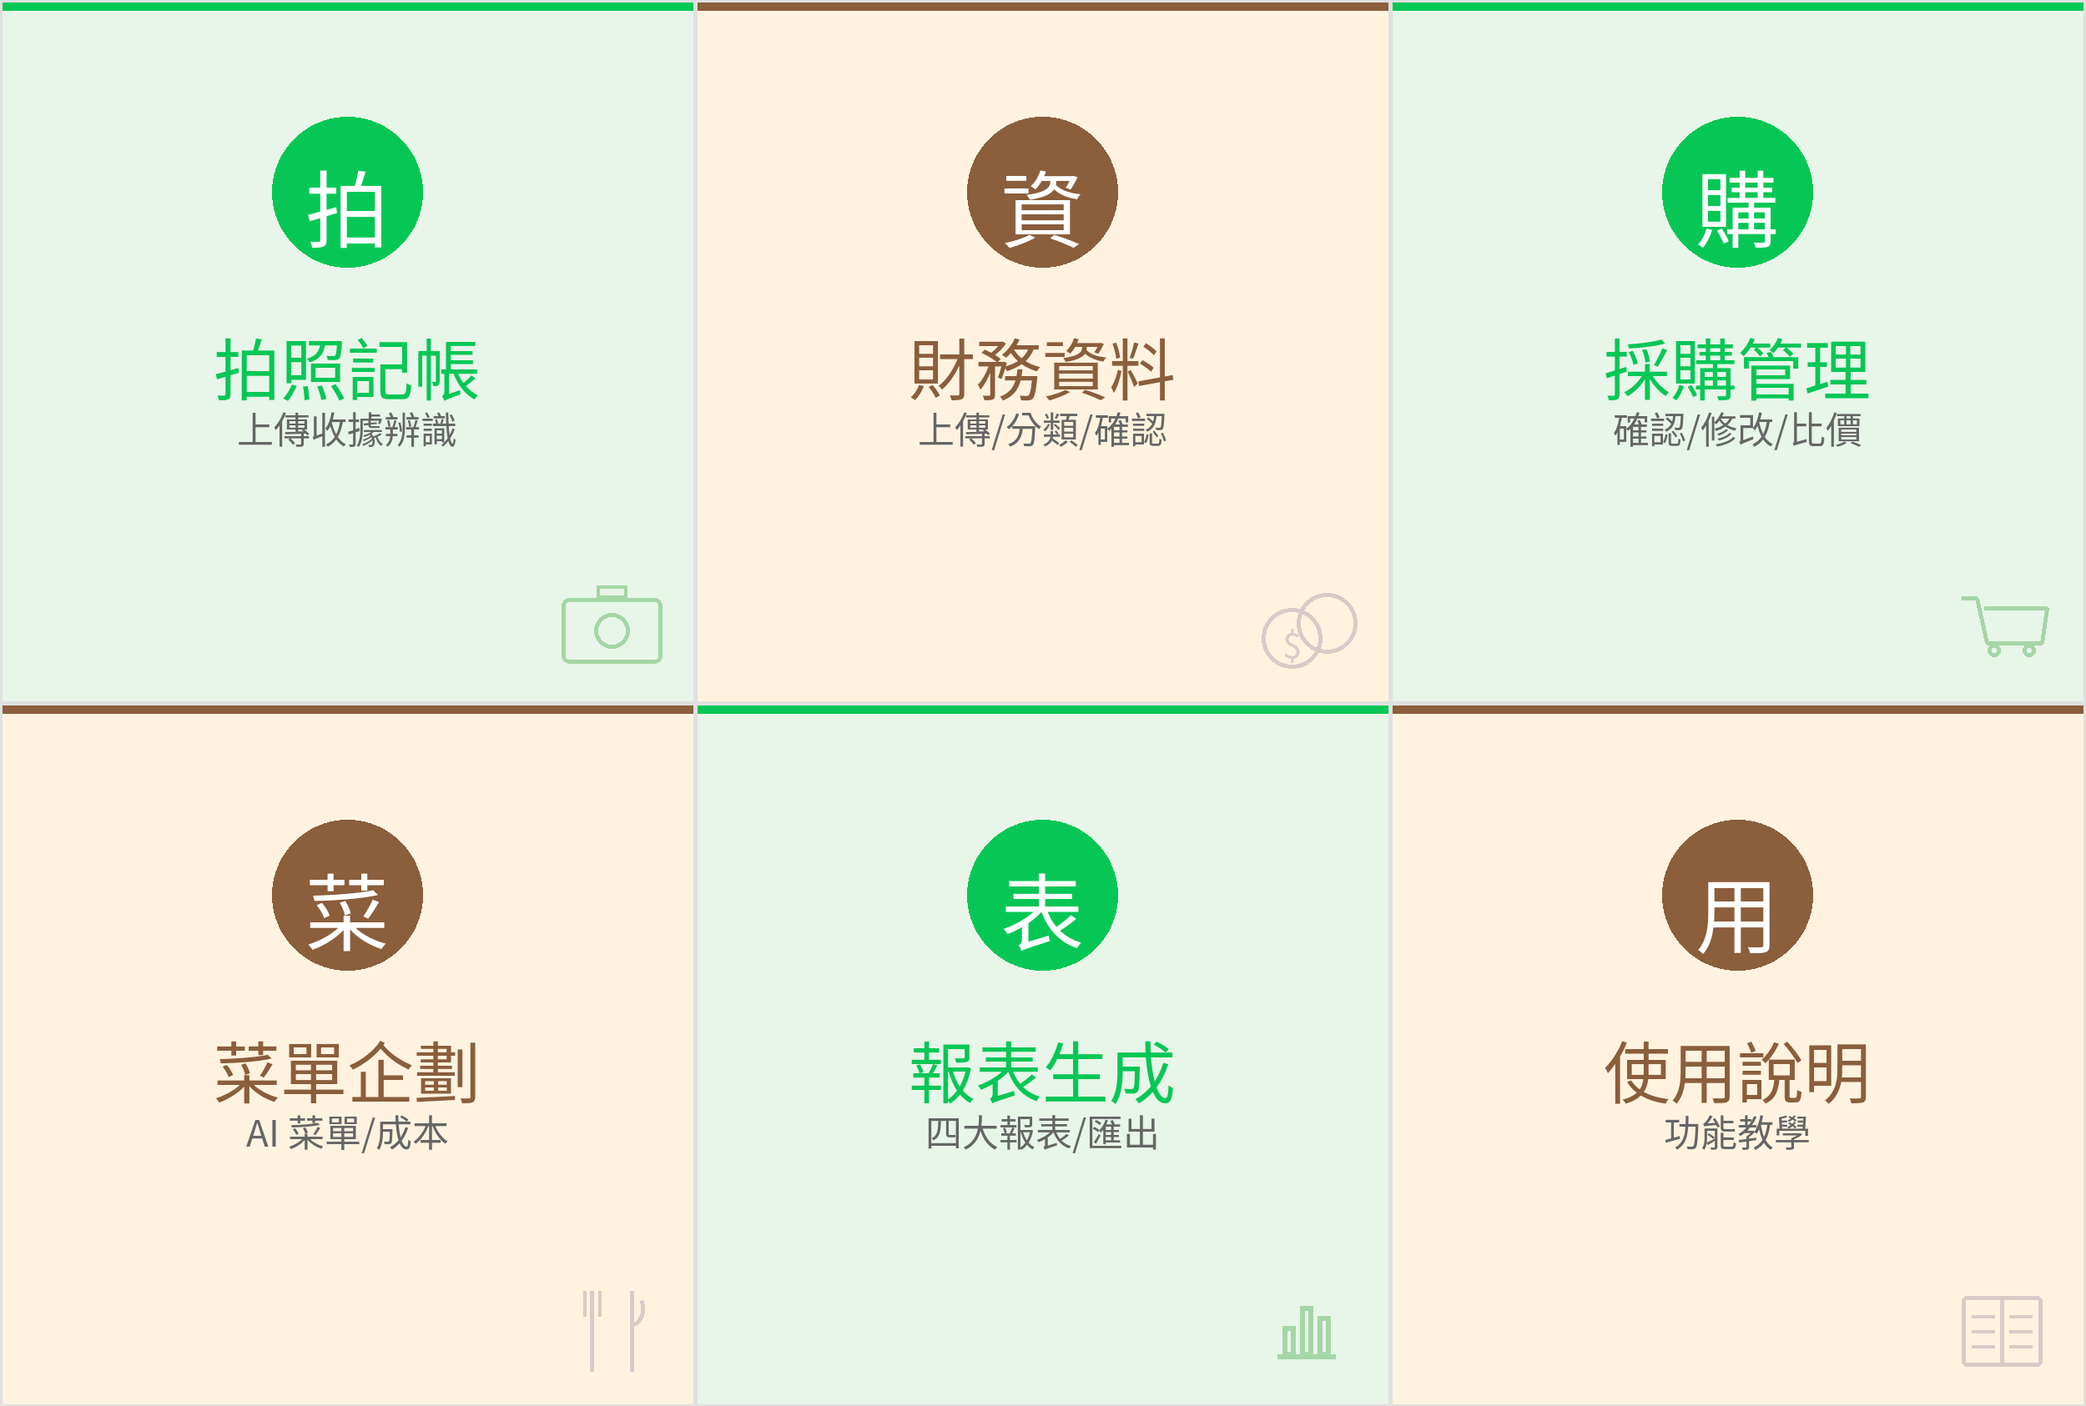
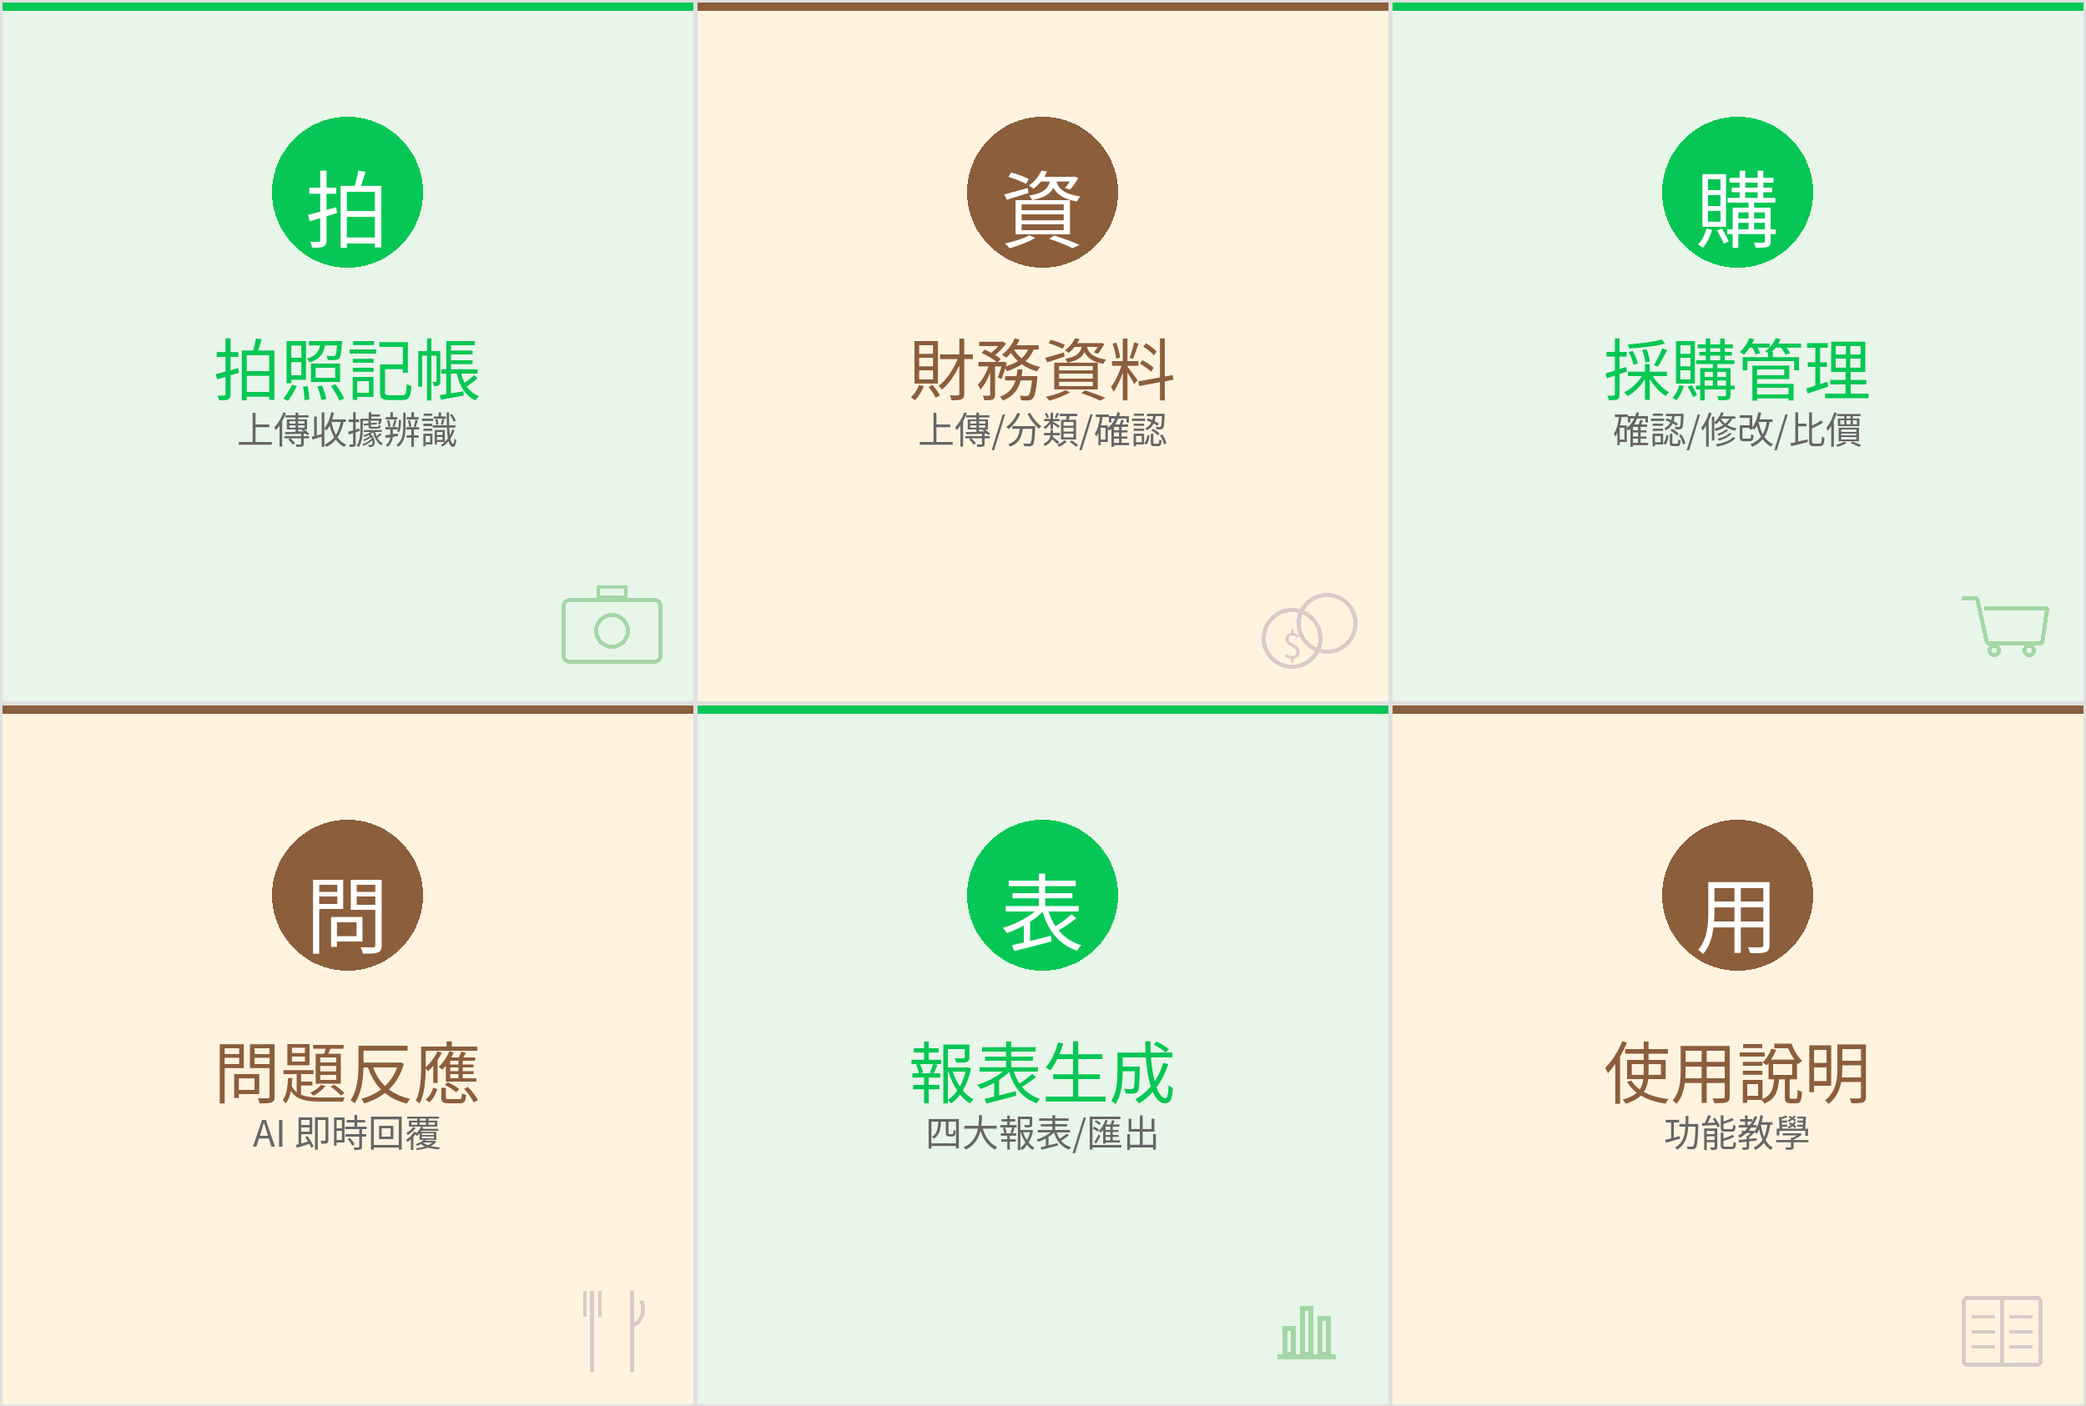
feat: 5/17 LV1 Rich Menu「問題反應」+ issue_feedback handler 三模型辯論
5/17 LV1 憲法 P0+P1 落地, 5 通道全部署 (rollback map 存 data/richmenu_rollback/).

Rich Menu cell #4 swap:
- services/richmenu_service.py: menu_plan → issue_feedback (postback data + displayText)
- scripts/generate_richmenu_image.py: CELLS[3] 菜單企劃 → 問題反應 (AI 即時回覆)
- assets/richmenu.png: 重新生成

新 handlers/issue_feedback_handler.py:
- handle_postback_open: set state waiting_issue_question + reply Flex 提示
- handle_question: ack + 寫 ticket md 到 data/issue_tickets/ + spawn async _solve_and_reply
- _debate: claude sonnet ∥ llm-router ∥ gemini CLI (Ultra OAuth) 三路並行
- 收斂規則: alive ≥ 2/3 + 禁詞檢測 (請聯絡老闆 / 下次月會討論 等 6 條)
- ticket lite SOP state 機: open → claimed → verified → replied | escalated
- FAQ auto-write data/issue_faq/{YYYYMMDD}.md
- 不收斂 → push admin LINE escalate, 跟員工說「我先請老闆過目」

Wire callsites:
- handlers/postback_handler.py:27: menu=issue_feedback router hook
- handlers/postback_handler.py:885: alt_text 加 issue_feedback
- handlers/command_handler.py:24: waiting_issue_question state route

Smoke test: mock LineService 跑 postback+question+cancel 全 SMOKE_OK,
ticket md 真生 (data/issue_tickets/20260603_212928_user.md).
真實 prompt 跑 gemini CLI 回 136 char 老闆口吻條列建議, 無禁詞.

diff --git a/handlers/issue_feedback_handler.py b/handlers/issue_feedback_handler.py
@@ -1,0 +1,301 @@
+"""
+員工問題反應 handler (5/17 LV1 憲法落地)
+
+流程：
+  1. postback menu=issue_feedback → set state waiting_issue_question + reply Flex
+  2. 員工貼文字 → handle_question:
+       (a) 寫 ticket md 到 data/issue_tickets/
+       (b) ack 員工「我來想想，1-2 分鐘給你」+ clear state
+       (c) spawn async task：三模型辯論 (claude sonnet ∥ llm-router ∥ gemini)
+       (d) 收斂 + 自驗證 → push reply 給員工 (老闆口吻) + cc Simon
+       (e) 不收斂 → escalate Simon + 跟員工說「我先請老闆看一下」
+
+依憲法：
+  - 多模型 ≥3 真實 (feedback_three_model_debate_universal_intent_constitutional)
+  - 老闆口吻不是客服語氣
+  - ticket md 走 ticket_lite SOP (open → claimed → verified → replied | escalated)
+"""
+
+import asyncio
+import json
+import logging
+import os
+import re
+from datetime import datetime
+from pathlib import Path
+from typing import Optional
+
+import state_manager as sm
+from services.claude_bridge import chat as claude_chat
+from services.line_service import LineService
+
+logger = logging.getLogger("shanbot.issue_feedback")
+
+SHANBOT_DIR = Path(__file__).resolve().parent.parent
+TICKETS_DIR = SHANBOT_DIR / "data" / "issue_tickets"
+FAQ_DIR = SHANBOT_DIR / "data" / "issue_faq"
+
+ADMIN_LINE_ID = os.environ.get("SHANBOT_ADMIN_LINE_ID", "U2a551ae0489009eb31a864860504b804")
+
+MODEL_TIMEOUT = 60
+ACK_TEXT = "✅ 收到了，我想 1-2 分鐘再給你完整回覆，老闆我也 cc 一份"
+ESCALATE_USER_TEXT = "我先請老闆過目一下，等等回你"
+ESCALATE_ADMIN_PREFIX = "[shanbot 問題反應 ESCALATE]"
+COMPLETE_ADMIN_PREFIX = "[shanbot 問題反應 已答]"
+
+SYSTEM_PROMPT = (
+    "你是團膳公司老闆的 AI 助理。員工剛在 LINE 反應一個工作上的問題或建議。\n"
+    "你的工作：(1) 判斷是否能直接回答 / 改善 (2) 給具體可執行的回覆 (3) 用老闆口吻說話\n"
+    "禁止：客服語氣（您好/感謝您的提問）、轉介（請聯絡老闆/請通知管理員）、拖延（先存起來下次月會討論）\n"
+    "格式：先 1-2 句直接結論，然後條列具體步驟或改善建議。"
+)
+
+BANNED_PHRASES = [
+    "請聯絡老闆", "請通知管理員", "我無法處理請改用其他管道",
+    "下次月會討論", "您好，感謝您的提問", "感謝您的提問",
+]
+
+
+def _ensure_dirs():
+    TICKETS_DIR.mkdir(parents=True, exist_ok=True)
+    FAQ_DIR.mkdir(parents=True, exist_ok=True)
+
+
+def _ticket_id(user_id: str) -> str:
+    now = datetime.now()
+    tail = (user_id or "anon")[-4:]
+    return f"{now:%Y%m%d_%H%M%S}_{tail}"
+
+
+def _ticket_path(tid: str) -> Path:
+    return TICKETS_DIR / f"{tid}.md"
+
+
+def _write_ticket(tid: str, state: str, payload: dict):
+    p = _ticket_path(tid)
+    meta = {
+        "ticket_id": tid,
+        "state": state,
+        "updated_at": datetime.now().isoformat(timespec="seconds"),
+        **{k: v for k, v in payload.items() if k != "body"},
+    }
+    front = "---\n" + "\n".join(f"{k}: {json.dumps(v, ensure_ascii=False)}" for k, v in meta.items()) + "\n---\n"
+    p.write_text(front + payload.get("body", ""), encoding="utf-8")
+
+
+def _update_ticket_state(tid: str, state: str, append_body: str = ""):
+    p = _ticket_path(tid)
+    if not p.exists():
+        return
+    txt = p.read_text(encoding="utf-8")
+    txt = re.sub(r'^(state:).*$', f'state: "{state}"', txt, count=1, flags=re.MULTILINE)
+    txt = re.sub(r'^(updated_at:).*$',
+                 f'updated_at: "{datetime.now().isoformat(timespec="seconds")}"',
+                 txt, count=1, flags=re.MULTILINE)
+    if append_body:
+        txt += "\n" + append_body
+    p.write_text(txt, encoding="utf-8")
+
+
+# === Multi-model debate (3 真實 source) ===
+
+def _run_claude(prompt: str, system: str) -> Optional[str]:
+    try:
+        return claude_chat(prompt, system, model="sonnet", timeout=MODEL_TIMEOUT)
+    except Exception as e:
+        logger.warning(f"claude failed: {e}")
+        return None
+
+
+def _run_llm_router(prompt: str, system: str) -> Optional[str]:
+    import requests
+    url = os.environ.get("LLM_ROUTER_URL", "http://127.0.0.1:8010/chat")
+    try:
+        r = requests.post(url, json={"system": system, "prompt": prompt, "max_tokens": 2048},
+                          timeout=MODEL_TIMEOUT)
+        if r.status_code == 200:
+            j = r.json()
+            return j.get("text") or j.get("content") or r.text
+        logger.warning(f"llm-router http={r.status_code}")
+    except Exception as e:
+        logger.warning(f"llm-router failed: {e}")
+    return None
+
+
+def _run_gemini(prompt: str, system: str) -> Optional[str]:
+    """2026-06-03: 改走 Gemini CLI (Ultra OAuth)，API key 已撤銷不再用。"""
+    import subprocess
+    cli = os.environ.get("GEMINI_CLI_BIN", "/home/simon/.npm-global/bin/gemini")
+    if not os.path.exists(cli):
+        return None
+    model = os.environ.get("GEMINI_MODEL", "gemini-2.5-flash")
+    full_prompt = f"{system}\n\n問題：{prompt}"
+    try:
+        env = os.environ.copy()
+        env["GEMINI_CLI_TRUST_WORKSPACE"] = "true"
+        r = subprocess.run(
+            [cli, "-p", full_prompt, "-m", model, "--yolo", "--skip-trust", "-o", "text"],
+            env=env, capture_output=True, text=True, timeout=MODEL_TIMEOUT,
+        )
+        if r.returncode == 0:
+            return (r.stdout or "").strip() or None
+        logger.warning(f"gemini CLI exit={r.returncode} stderr={r.stderr[:160]}")
+    except Exception as e:
+        logger.warning(f"gemini CLI failed: {e}")
+    return None
+
+
+async def _debate(question: str) -> dict:
+    loop = asyncio.get_event_loop()
+    tasks = [
+        loop.run_in_executor(None, _run_claude, question, SYSTEM_PROMPT),
+        loop.run_in_executor(None, _run_llm_router, question, SYSTEM_PROMPT),
+        loop.run_in_executor(None, _run_gemini, question, SYSTEM_PROMPT),
+    ]
+    raw = await asyncio.gather(*tasks, return_exceptions=True)
+
+    answers = {}
+    for name, val in zip(["claude_sonnet", "llm_router", "gemini"], raw):
+        answers[name] = None if isinstance(val, Exception) else val
+    alive = [k for k, v in answers.items() if v]
+
+    if len(alive) < 2:
+        return {"answers": answers, "models_alive": alive,
+                "convergence": False, "verified": False, "final": None}
+
+    scored = sorted(
+        [(k, v) for k, v in answers.items() if v],
+        key=lambda kv: (
+            sum(1 for w in ["步驟", "建議", "作法", "改善", "處理"] if w in kv[1]),
+            len(kv[1]),
+        ),
+        reverse=True,
+    )
+    final = scored[0][1]
+    verified = not any(b in final for b in BANNED_PHRASES)
+
+    return {"answers": answers, "models_alive": alive,
+            "convergence": True, "verified": verified, "final": final}
+
+
+# === 入口：postback ===
+
+async def handle_postback_open(line_service: LineService, group_id: str,
+                               user_id: str, reply_token: str,
+                               company_id: int = 1):
+    """postback menu=issue_feedback → 設 state + 提示員工"""
+    _ensure_dirs()
+    sm.set_state(group_id, "waiting_issue_question", {})
+
+    flex = {
+        "type": "bubble",
+        "size": "kilo",
+        "header": {
+            "type": "box", "layout": "vertical",
+            "contents": [{"type": "text", "text": "📣 問題反應", "weight": "bold",
+                          "size": "lg", "color": "#FFFFFF"}],
+            "backgroundColor": "#06C755", "paddingAll": "12px",
+        },
+        "body": {
+            "type": "box", "layout": "vertical", "spacing": "sm",
+            "contents": [
+                {"type": "text", "text": "工作上有任何問題或建議？", "weight": "bold", "wrap": True},
+                {"type": "text",
+                 "text": "直接打字告訴我，AI 會立刻處理並回覆，老闆也會收到副本。",
+                 "size": "sm", "color": "#555555", "wrap": True},
+                {"type": "text", "text": "（不想反應了就回「取消」）",
+                 "size": "xs", "color": "#888888", "wrap": True, "margin": "md"},
+            ],
+        },
+    }
+    try:
+        line_service.reply_flex(reply_token, "請輸入你的問題", flex)
+    except Exception as e:
+        logger.error(f"reply_flex failed: {e}")
+
+
+# === 入口：文字 (state machine) ===
+
+async def handle_question(line_service: LineService, text: str, group_id: str,
+                          user_id: str, reply_token: str,
+                          company_id: int = 1) -> Optional[str]:
+    """waiting_issue_question 狀態下的文字訊息"""
+    _ensure_dirs()
+    txt = (text or "").strip()
+    if not txt:
+        return "請打字描述你的問題"
+    if txt in ("取消", "cancel", "算了"):
+        sm.clear_state(group_id)
+        return "好，取消了"
+
+    tid = _ticket_id(user_id)
+    _write_ticket(tid, "open", {
+        "employee_id": user_id,
+        "group_id": group_id,
+        "company_id": company_id,
+        "question": txt,
+        "body": f"## 問題\n\n{txt}\n",
+    })
+    sm.clear_state(group_id)
+
+    asyncio.create_task(_solve_and_reply(line_service, tid, txt, user_id, group_id, company_id))
+    return ACK_TEXT
+
+
+async def _solve_and_reply(line_service: LineService, tid: str, question: str,
+                           user_id: str, group_id: str, company_id: int):
+    _update_ticket_state(tid, "claimed")
+    try:
+        result = await _debate(question)
+    except Exception as e:
+        logger.error(f"debate crashed: {e}")
+        result = {"convergence": False, "verified": False, "final": None,
+                  "models_alive": [], "answers": {}}
+
+    body_append = "\n## Debate\n\n"
+    for name, ans in result.get("answers", {}).items():
+        body_append += f"### {name}\n\n{ans or '(no response)'}\n\n"
+    body_append += (f"\n## Convergence\n\nalive={result['models_alive']} "
+                    f"converged={result['convergence']} verified={result['verified']}\n")
+
+    if result["convergence"] and result["verified"] and result["final"]:
+        _update_ticket_state(tid, "verified", body_append + f"\n## Reply\n\n{result['final']}\n")
+        try:
+            line_service.push(user_id, result["final"], company_id=company_id)
+            _update_ticket_state(tid, "replied")
+            line_service.push(ADMIN_LINE_ID,
+                              f"{COMPLETE_ADMIN_PREFIX} {tid}\n問題: {question[:80]}\n"
+                              f"回覆: {result['final'][:200]}",
+                              company_id=company_id)
+            _write_faq(tid, question, result["final"])
+        except Exception as e:
+            logger.error(f"push reply failed: {e}")
+            _update_ticket_state(tid, "reply_push_failed")
+    else:
+        _update_ticket_state(tid, "escalated", body_append)
+        reason = []
+        if not result["convergence"]:
+            reason.append(f"alive={len(result['models_alive'])}/3 未收斂")
+        if not result["verified"]:
+            reason.append("自驗證禁詞檢測未過")
+        try:
+            line_service.push(user_id, ESCALATE_USER_TEXT, company_id=company_id)
+            line_service.push(ADMIN_LINE_ID,
+                              f"{ESCALATE_ADMIN_PREFIX} {tid}\n員工: {user_id}\n"
+                              f"問題: {question}\n原因: {' / '.join(reason)}\n"
+                              f"卡片: data/issue_tickets/{tid}.md",
+                              company_id=company_id)
+        except Exception as e:
+            logger.error(f"push escalate failed: {e}")
+
+
+def _write_faq(tid: str, question: str, answer: str):
+    """收斂後的 Q&A 寫進 FAQ 庫（5/17 LV1 P2 部分落地）"""
+    try:
+        date = datetime.now().strftime("%Y%m%d")
+        p = FAQ_DIR / f"{date}.md"
+        block = f"\n## {tid}\n\n**Q:** {question}\n\n**A:** {answer}\n"
+        with p.open("a", encoding="utf-8") as f:
+            f.write(block)
+    except Exception as e:
+        logger.warning(f"FAQ write failed: {e}")

diff --git a/handlers/postback_handler.py b/handlers/postback_handler.py
@@ -23,6 +23,12 @@ async def handle_postback(line_service, data_str: str, group_id: str,
     menu = params.get("menu")
     action = params.get("action")
 
+    # === 問題反應 (5/17 LV1) ===
+    if menu == "issue_feedback":
+        from handlers.issue_feedback_handler import handle_postback_open
+        await handle_postback_open(line_service, group_id, user_id, reply_token, company_id)
+        return
+
     # === 六宮格主選單 ===
     if menu:
         flex = _handle_menu(menu, group_id, company_id)
@@ -876,5 +882,6 @@ def _alt_text(menu: str) -> str:
         "export": "📤 匯出中心",
         "reports": "📊 報表生成",
         "guide": "❓ 使用說明",
+        "issue_feedback": "📣 問題反應",
     }
     return labels.get(menu, "小膳選單")

diff --git a/scripts/generate_richmenu_image.py b/scripts/generate_richmenu_image.py
@@ -20,7 +20,7 @@ CELLS = [
     {"icon": "[ 拍 ]", "title": "拍照記帳",   "sub": "上傳收據辨識",  "bg": GREEN},
     {"icon": "[ 資 ]", "title": "財務資料",   "sub": "上傳/分類/確認", "bg": BROWN},
     {"icon": "[ 購 ]", "title": "採購管理",   "sub": "確認/修改/比價", "bg": GREEN},
-    {"icon": "[ 菜 ]", "title": "菜單企劃",   "sub": "AI 菜單/成本",  "bg": BROWN},
+    {"icon": "[ 問 ]", "title": "問題反應",   "sub": "AI 即時回覆",  "bg": BROWN},
     {"icon": "[ 表 ]", "title": "報表生成",   "sub": "四大報表/匯出", "bg": GREEN},
     {"icon": "[ 用 ]", "title": "使用說明",   "sub": "功能教學",      "bg": BROWN},
 ]

diff --git a/handlers/command_handler.py b/handlers/command_handler.py
@@ -20,6 +20,10 @@ async def handle_text(line_service, text: str, group_id: str,
     # 1. 檢查對話狀態（state machine）
     state, state_data = sm.get_state(group_id)
 
+    if state == "waiting_issue_question":
+        from handlers.issue_feedback_handler import handle_question
+        return await handle_question(line_service, text, group_id, user_id, reply_token, company_id)
+
     if state == "waiting_confirm":
         return await _handle_confirm_response(text, group_id, state_data)
 

diff --git a/services/richmenu_service.py b/services/richmenu_service.py
@@ -41,8 +41,8 @@ RICHMENU_JSON = {
         {
             "bounds": {"x": 0, "y": 843, "width": 833, "height": 843},
             "action": {
-                "type": "postback", "label": "菜單企劃",
-                "data": "menu=menu_plan", "displayText": "🍽 菜單企劃",
+                "type": "postback", "label": "問題反應",
+                "data": "menu=issue_feedback", "displayText": "📣 問題反應",
             },
         },
         {
